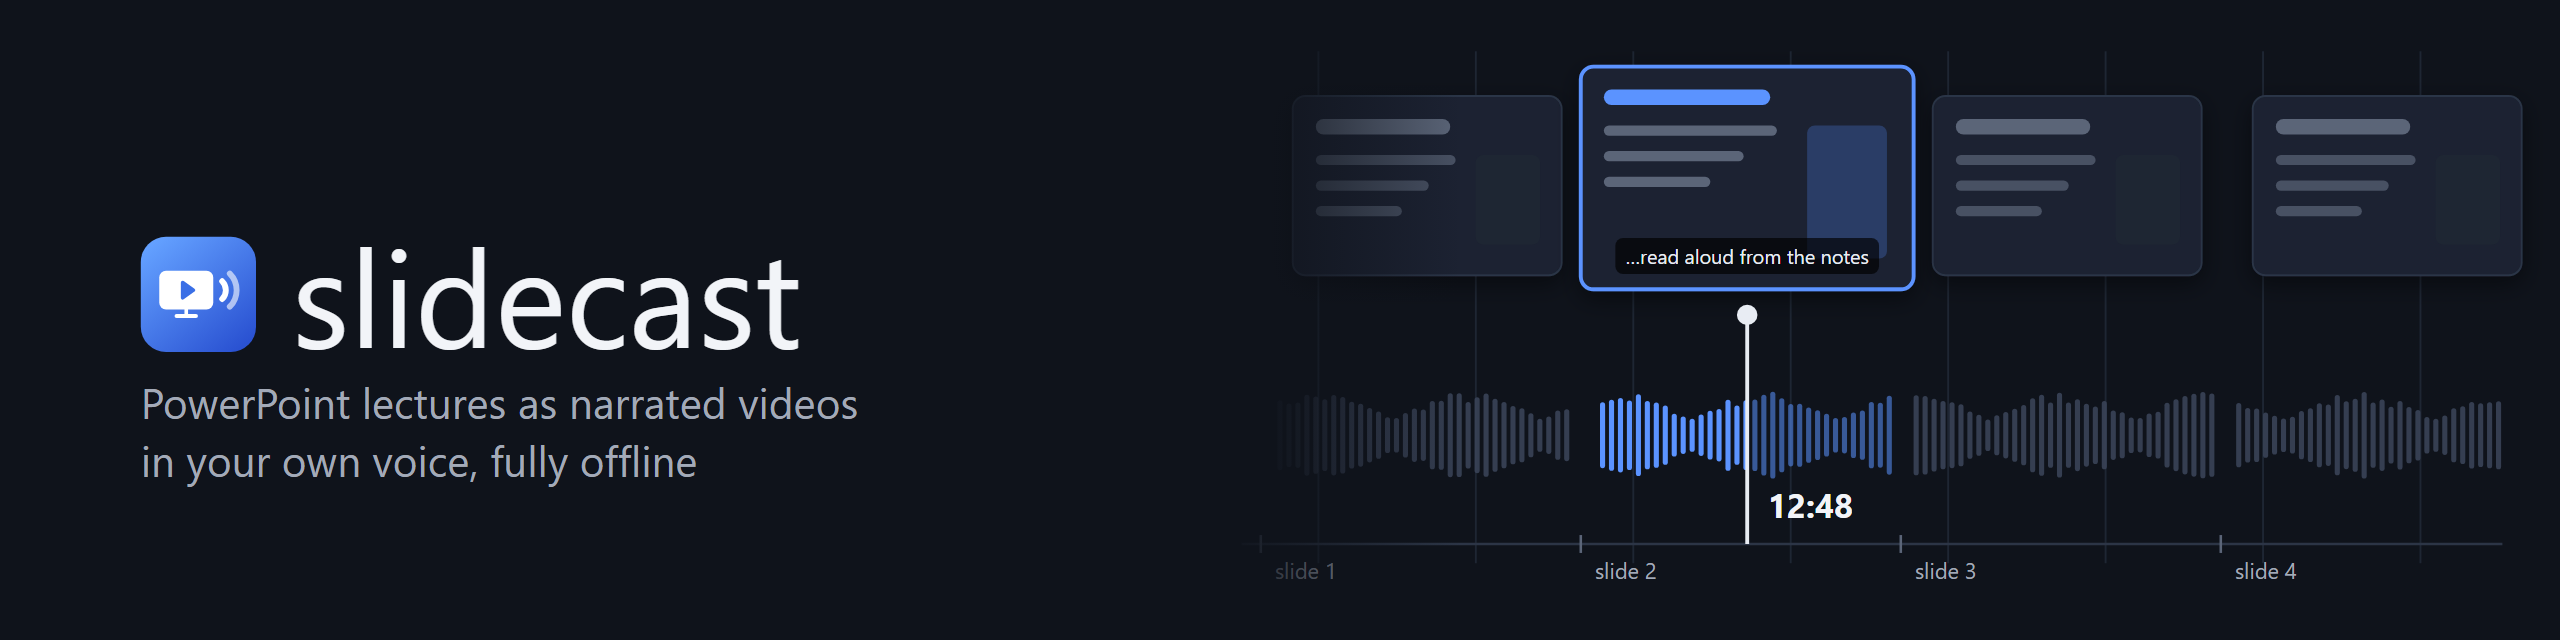
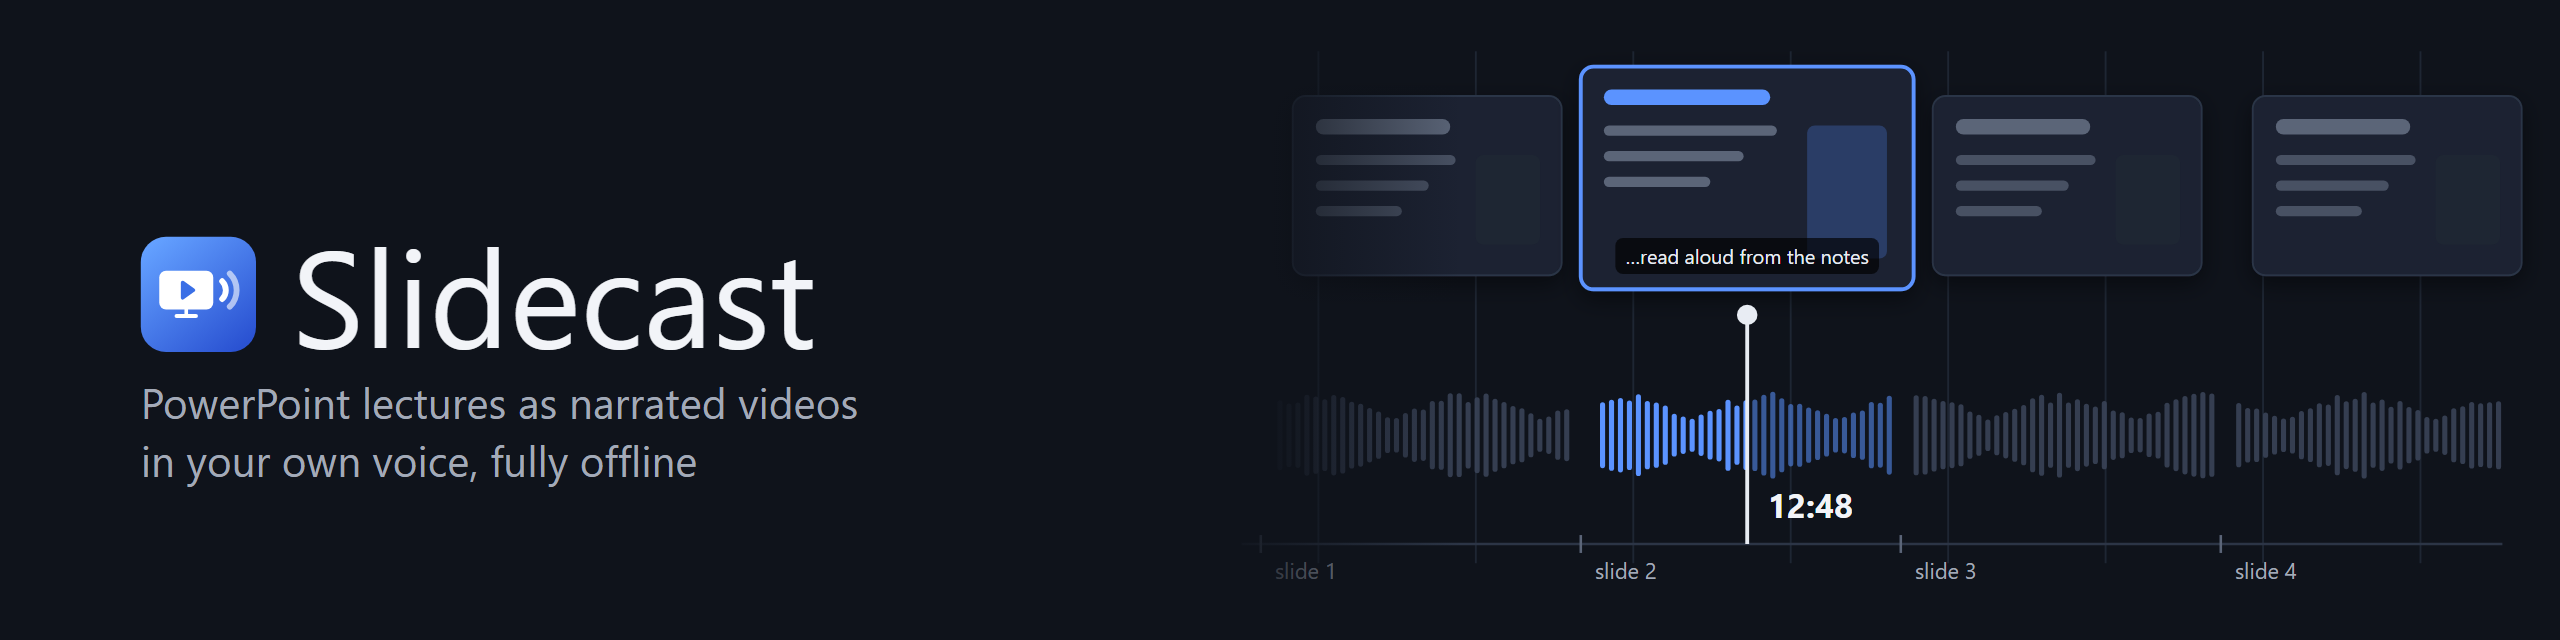
Name: Slidecast, with a capital letter

Changed region(s): [[0.0938, 0.375, 0.3125, 0.5625]]

diff --git a/scripts/Slidecast.cs b/scripts/Slidecast.cs
@@ -1,4 +1,4 @@
-// Slidecast.exe: a tiny launcher that opens the slidecast window through pixi, without a console.
+// Slidecast.exe: a tiny launcher that opens the Slidecast window through pixi, without a console.
 // install.ps1 compiles it with the C# compiler that ships with Windows (.NET Framework 4), so no
 // binary lives in the repository. It runs `pixi run --manifest-path <its folder>\pixi.toml
 // slidecast [args]`, i.e. exactly what a developer would type, in the real environment.
@@ -8,8 +8,8 @@ using System.IO;
 using System.Linq;
 using System.Windows.Forms;
 
-[assembly: System.Reflection.AssemblyTitle("slidecast")]
-[assembly: System.Reflection.AssemblyProduct("slidecast - PowerPoint deck to narrated video")]
+[assembly: System.Reflection.AssemblyTitle("Slidecast")]
+[assembly: System.Reflection.AssemblyProduct("Slidecast - PowerPoint deck to narrated video")]
 [assembly: System.Reflection.AssemblyVersion("1.0.0.0")]
 
 static class Launcher
@@ -41,7 +41,7 @@ static class Launcher
 
     static void Fail(string text, MessageBoxIcon icon)
     {
-        MessageBox.Show(text, "slidecast", MessageBoxButtons.OK, icon);
+        MessageBox.Show(text, "Slidecast", MessageBoxButtons.OK, icon);
     }
 
     [STAThread]
@@ -56,7 +56,7 @@ static class Launcher
         }
         if (!Directory.Exists(Path.Combine(dir, ".pixi", "envs", "default")))
         {
-            Fail("slidecast is not installed yet.\n\nRun Install.cmd in\n" + dir,
+            Fail("Slidecast is not installed yet.\n\nRun Install.cmd in\n" + dir,
                  MessageBoxIcon.Information);
             return 1;
         }
@@ -83,7 +83,7 @@ static class Launcher
         }
         catch (Exception e)
         {
-            Fail("Could not start slidecast:\n" + e.Message, MessageBoxIcon.Error);
+            Fail("Could not start Slidecast:\n" + e.Message, MessageBoxIcon.Error);
             return 1;
         }
         return 0;

diff --git a/slidecast/doctor.py b/slidecast/doctor.py
@@ -3,7 +3,7 @@
 Run by the installer after the environment is in place. It downloads the voice model up front,
 so the first narration does not stall on a 3.8 GB download, and reports whether the GPU, ffmpeg
 and LibreOffice are usable - in plain words, since the person reading it is not a developer.
-Exit code 1 means something slidecast cannot work without is missing.
+Exit code 1 means something Slidecast cannot work without is missing.
 """
 
 from __future__ import annotations
@@ -32,7 +32,7 @@ def check_gpu() -> str:
     if not torch.cuda.is_available():
         return report(
             WARN,
-            "No usable NVIDIA graphics card. slidecast will run on the processor, which is much "
+            "No usable NVIDIA graphics card. Slidecast will run on the processor, which is much "
             "slower - set Processor to 'cpu' in the Voice step. If you do have an NVIDIA card, "
             "update its driver from nvidia.com and restart the PC.",
         )
@@ -118,7 +118,7 @@ def quiet_hugging_face() -> None:
 def main() -> int:
     configure_logging(None, console=False)
     quiet_hugging_face()
-    print("Checking what slidecast needs...", flush=True)
+    print("Checking what Slidecast needs...", flush=True)
     results = [check_gpu(), check_ffmpeg(), check_libreoffice(), check_powerpoint()]
     print("Downloading the voice model (3.8 GB, only the first time)...", flush=True)
     results.append(fetch_model())

diff --git a/slidecast/gui/main_window.py b/slidecast/gui/main_window.py
@@ -275,7 +275,7 @@ class MainWindow:
 
     @staticmethod
     def _title(project: Project | None) -> str:
-        return "slidecast" if project is None else f"{project.deck_path.name} - slidecast"
+        return "Slidecast" if project is None else f"{project.deck_path.name} - Slidecast"
 
     def on_project_changed(self, project: Project | None) -> None:
         # Every step stays reachable: with no deck open, Voice/Synthesis/Export edit the
@@ -323,7 +323,7 @@ class MainWindow:
         self.status.finish(message, ok)
         self.update_hints()
         if not ok and "cancelled" not in message:
-            await alert("slidecast", message, error=True)
+            await alert("Slidecast", message, error=True)
 
     def on_message(self, level: str, text: str) -> None:
         self.status.set_message(text)
@@ -371,8 +371,8 @@ class MainWindow:
 
     async def about(self) -> None:
         await alert(
-            "About slidecast",
-            f"slidecast {__version__}\n\nPPTX to narrated video with Chatterbox-Turbo, "
+            "About Slidecast",
+            f"Slidecast {__version__}\n\nPPTX to narrated video with Chatterbox-Turbo, "
             "LibreOffice, PyMuPDF and ffmpeg. Fully local.\n\n"
             "Generated audio carries Resemble AI's Perth neural watermark.",
         )

diff --git a/slidecast/core/components.py b/slidecast/core/components.py
@@ -1,6 +1,6 @@
 """What a project is built from, and how to throw individual pieces away.
 
-Everything slidecast produces is cached, which is what makes a 90-minute lecture cheap to re-run.
+Everything Slidecast produces is cached, which is what makes a 90-minute lecture cheap to re-run.
 The flip side is that when one piece is wrong - the voice changed, PowerPoint rendered a slide
 oddly, an encode looks soft - you want to rebuild *that piece* without paying for the rest. This
 module names the pieces, reports what each currently costs on disk, and deletes them safely.
@@ -30,7 +30,7 @@ class Component:
     items: int
     bytes: int
     present: bool
-    rebuildable: bool  # slidecast can regenerate it on demand
+    rebuildable: bool  # Slidecast can regenerate it on demand
 
     @property
     def size_mb(self) -> float:

diff --git a/slidecast/gui/widgets/sidebar.py b/slidecast/gui/widgets/sidebar.py
@@ -33,7 +33,7 @@ class Sidebar:
                 with ui.row().classes("items-center gap-2 no-wrap"):
                     if icon_url:
                         ui.image(icon_url).style("width: 30px; height: 30px")
-                    ui.label("slidecast").classes("sc-brand")
+                    ui.label("Slidecast").classes("sc-brand")
                 ui.label("Presentation to video").classes("sc-muted")
             ui.label("Workflow").classes("sc-section px-2 pt-2 pb-1")
             for i, (key, title) in enumerate(STEPS):

diff --git a/slidecast/core/project.py b/slidecast/core/project.py
@@ -241,7 +241,7 @@ class Project:
             raise ProjectError(f"Corrupt project state in {f}: missing or invalid version")
         if version > STATE_VERSION:
             raise ProjectError(
-                f"{f} was written by a newer slidecast (state version {version} > "
+                f"{f} was written by a newer Slidecast (state version {version} > "
                 f"{STATE_VERSION}). Upgrade the application instead of opening this project."
             )
         data = _migrate_state(data, version)

diff --git a/slidecast/gui/views/deck_view.py b/slidecast/gui/views/deck_view.py
@@ -80,7 +80,7 @@ class DeckView:
                     b = button("Open folder...", self.browse_project)
                     tip(
                         b,
-                        "Pick a folder: slidecast finds every presentation in it and its "
+                        "Pick a folder: Slidecast finds every presentation in it and its "
                         "subfolders.",
                     )
                 self.recent_box = ui.column().classes("w-full gap-1")

diff --git a/slidecast/gui/widgets/slide_table.py b/slidecast/gui/widgets/slide_table.py
@@ -61,7 +61,7 @@ _ROW = r"""
     <div v-else class="sc-thumb sc-thumb-empty"></div>
   </q-td>
   <q-td key="title" :props="props" class="sc-ellipsis" style="max-width: 220px"
-        :title="props.row.override ? 'Notes edited in slidecast (override)' : props.row.title">
+        :title="props.row.override ? 'Notes edited in Slidecast (override)' : props.row.title">
     {{ props.row.title }}
   </q-td>
   <q-td key="notes" :props="props" class="sc-notes-cell"

diff --git a/slidecast/core/batch.py b/slidecast/core/batch.py
@@ -26,7 +26,7 @@ PROJECT_SUFFIX = "_slidecast"
 
 def find_decks(root: Path) -> list[Path]:
     """All .pptx files under ``root`` (recursive), skipping Office temp files, hidden folders
-    and anything inside a slidecast project folder."""
+    and anything inside a Slidecast project folder."""
     root = Path(root)
     found: list[Path] = []
     # Folder first, then file name, so a folder's own decks precede its subfolders' decks.

diff --git a/slidecast/core/logging_setup.py b/slidecast/core/logging_setup.py
@@ -80,7 +80,7 @@ def configure_logging(
     level: int = logging.INFO,
     console: bool = True,
 ) -> logging.Logger:
-    """Configure the slidecast logger. Safe to call more than once."""
+    """Configure the Slidecast logger. Safe to call more than once."""
     logger = logging.getLogger(LOGGER_NAME)
     logger.setLevel(logging.DEBUG)
     logger.propagate = False

diff --git a/slidecast/gui/app.py b/slidecast/gui/app.py
@@ -98,7 +98,7 @@ def main(argv: list[str] | None = None) -> int:
         app.native.start_args["func"] = apply_window_icon
         app.native.start_args["args"] = (str(window_icon),)
     ui.run(
-        title="slidecast",
+        title="Slidecast",
         native=native,
         window_size=DEFAULT_SIZE if native else None,
         port=args.port,

diff --git a/slidecast/core/errors.py b/slidecast/core/errors.py
@@ -1,4 +1,4 @@
-"""Exception hierarchy for slidecast. Every error carries a user-readable message."""
+"""Exception hierarchy for Slidecast. Every error carries a user-readable message."""
 
 from __future__ import annotations
 
